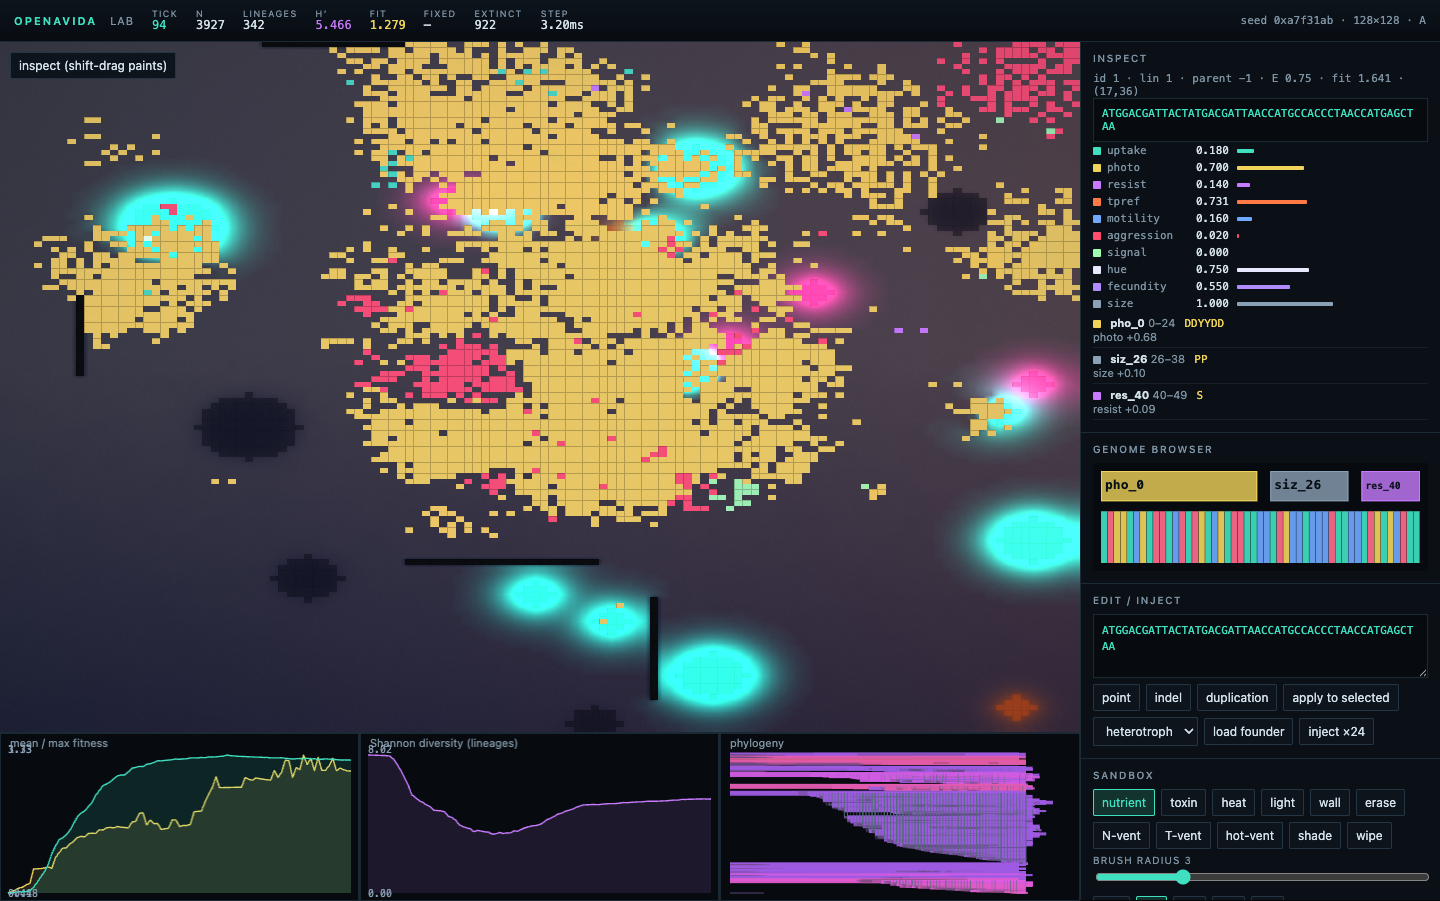
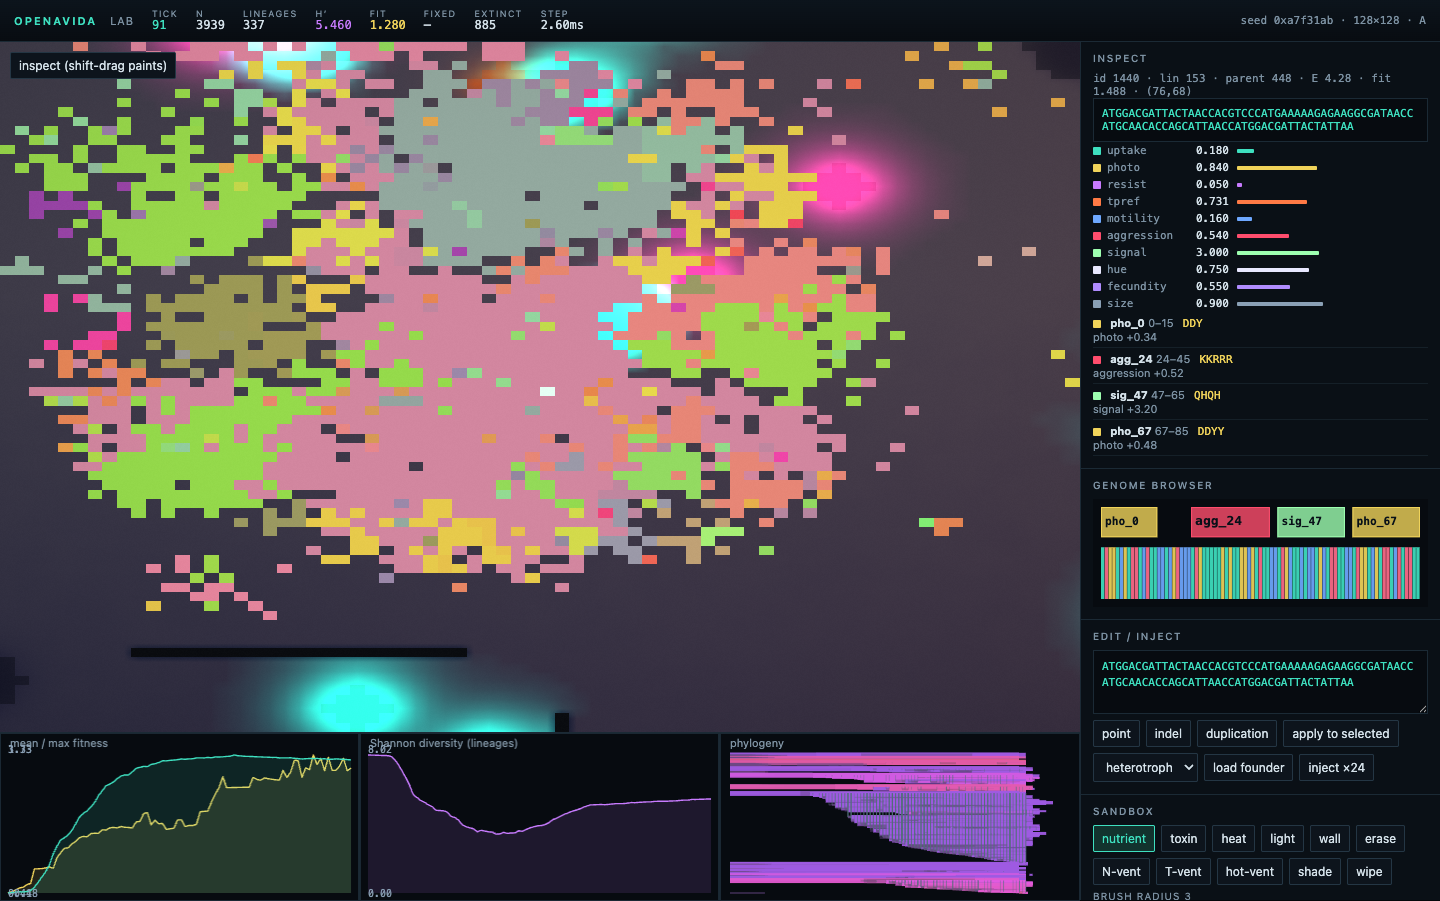
Zoom onto living mass and color cells by clade.
Density-crop the plate camera and mix lineage hue into guild color so
colonies read as packed, multi-clade tissue rather than a yellow lawn.

diff --git a/src/render/webgl.ts b/src/render/webgl.ts
@@ -19,6 +19,8 @@ uniform int uSplit;
 uniform sampler2D uFieldsB;
 uniform sampler2D uPlate;
 uniform sampler2D uPlateB;
+uniform vec4 uCrop;
+uniform vec4 uCropB;
 out vec4 fragColor;
 
 vec3 fieldColor(vec4 f) {
@@ -36,37 +38,40 @@ vec3 fieldColor(vec4 f) {
   return bg + nut * 1.05 + tox * 0.9 + tmp + lit;
 }
 
+vec2 applyCrop(vec2 local, vec4 crop) {
+  return vec2(mix(crop.x, crop.z, local.x), mix(crop.y, crop.w, local.y));
+}
+
 void main() {
   vec2 uv = gl_FragCoord.xy / uRes;
+  vec2 local;
   vec2 tuv;
   vec4 f;
   vec4 plate;
   if (uSplit == 1) {
     if (uv.x < 0.5) {
-      tuv = vec2(uv.x * 2.0, 1.0 - uv.y);
+      local = vec2(uv.x * 2.0, 1.0 - uv.y);
+      tuv = applyCrop(local, uCrop);
       f = texture(uFields, tuv);
       plate = texture(uPlate, tuv);
     } else {
-      tuv = vec2((uv.x - 0.5) * 2.0, 1.0 - uv.y);
+      local = vec2((uv.x - 0.5) * 2.0, 1.0 - uv.y);
+      tuv = applyCrop(local, uCropB);
       f = texture(uFieldsB, tuv);
       plate = texture(uPlateB, tuv);
     }
   } else {
-    tuv = vec2(uv.x, 1.0 - uv.y);
+    local = vec2(uv.x, 1.0 - uv.y);
+    tuv = applyCrop(local, uCrop);
     f = texture(uFields, tuv);
     plate = texture(uPlate, tuv);
   }
   vec3 col = fieldColor(f);
-  if (plate.a > 0.02) {
-    col = mix(col, plate.rgb, plate.a);
-    vec2 c = fract(tuv * uWorld);
-    float hair = (c.x < 0.07 || c.y < 0.07) ? 1.0 : 0.0;
-    col *= 1.0 - hair * 0.22 * plate.a;
-  }
+  if (plate.a > 0.02) col = mix(col, plate.rgb, plate.a);
   float vig = smoothstep(1.15, 0.22, length(uv - 0.5));
-  col *= 0.82 + 0.18 * vig;
+  col *= 0.86 + 0.14 * vig;
   float g = fract(sin(dot(gl_FragCoord.xy, vec2(12.9898, 78.233))) * 43758.5453);
-  col += (g - 0.5) * 0.012;
+  col += (g - 0.5) * 0.01;
   if (uSplit == 1) {
     float line = smoothstep(0.003, 0.0, abs(uv.x - 0.5));
     col = mix(col, vec3(0.25, 0.85, 0.75), line * 0.55);
@@ -119,7 +124,10 @@ function hexRgb(hex: string): [number, number, number] {
 }
 
 /** Display color from dominant metabolic trait, tinted by the hue locus. */
-export function organismRgb(ph: { uptake: number; photo: number; resist: number; aggression: number; signal: number; hue: number }): [number, number, number] {
+export function organismRgb(
+  ph: { uptake: number; photo: number; resist: number; aggression: number; signal: number; hue: number },
+  lineageId = 0,
+): [number, number, number] {
   const guilds: Array<[keyof typeof TRAIT_COLOR, number]> = [
     ["aggression", ph.aggression],
     ["photo", ph.photo],
@@ -130,8 +138,9 @@ export function organismRgb(ph: { uptake: number; photo: number; resist: number;
   let best = guilds[0]!;
   for (const g of guilds) if (g[1] > best[1]) best = g;
   const [br, bg, bb] = hexRgb(TRAIT_COLOR[best[0]]);
-  const [hr, hg, hb] = hsl(ph.hue, 0.62, 0.58);
-  return [br * 0.9 + hr * 0.1, bg * 0.9 + hg * 0.1, bb * 0.9 + hb * 0.1];
+  const linHue = (lineageId * 0.14159265 + ph.hue * 0.17) % 1;
+  const [lr, lg, lb] = hsl(linHue, 0.72, 0.56);
+  return [br * 0.48 + lr * 0.52, bg * 0.48 + lg * 0.52, bb * 0.48 + lb * 0.52];
 }
 
 export type FieldMode = 0 | 1 | 2 | 3 | 4;
@@ -151,6 +160,8 @@ export class LabRenderer {
   fieldMode: FieldMode = 0;
   view: ViewMode = "A";
   selectedId = -1;
+  private cropA: [number, number, number, number] = [0, 0, 1, 1];
+  private cropB: [number, number, number, number] = [0, 0, 1, 1];
 
   constructor(canvas: HTMLCanvasElement) {
     this.canvas = canvas;
@@ -256,7 +267,7 @@ export class LabRenderer {
     }
     for (const org of world.organisms) {
       const i = (org.y * world.w + org.x) * 4;
-      const [r, g, b] = organismRgb(org.ph);
+      const [r, g, b] = organismRgb(org.ph, org.lineageId);
       const sel = org.id === this.selectedId;
       out[i] = sel ? 230 : Math.round(r * 255);
       out[i + 1] = sel ? 255 : Math.round(g * 255);
@@ -290,7 +301,11 @@ export class LabRenderer {
     gl.uniform2f(gl.getUniformLocation(this.fieldProg, "uWorld"), primary.w, primary.h);
     gl.uniform1f(gl.getUniformLocation(this.fieldProg, "uTime"), timeSec);
     gl.uniform1i(gl.getUniformLocation(this.fieldProg, "uMode"), this.fieldMode);
+    this.cropA = occupancyCrop(this.view === "B" && !split ? worldB : worldA);
+    this.cropB = occupancyCrop(worldB);
     gl.uniform1i(gl.getUniformLocation(this.fieldProg, "uSplit"), split ? 1 : 0);
+    gl.uniform4f(gl.getUniformLocation(this.fieldProg, "uCrop"), ...this.cropA);
+    gl.uniform4f(gl.getUniformLocation(this.fieldProg, "uCropB"), ...this.cropB);
     gl.activeTexture(gl.TEXTURE0);
     gl.bindTexture(gl.TEXTURE_2D, this.texA);
     gl.uniform1i(gl.getUniformLocation(this.fieldProg, "uFields"), 0);
@@ -311,13 +326,25 @@ export class LabRenderer {
     let u = (clientX - rect.left) / rect.width;
     const v = (clientY - rect.top) / rect.height;
     if (u < 0 || v < 0 || u > 1 || v > 1) return null;
-    if (this.view === "split") {
-      u = u < 0.5 ? u * 2 : (u - 0.5) * 2;
-    }
-    const x = Math.floor(u * world.w);
-    const y = Math.floor(v * world.h);
+    const side = this.view === "split" ? (u < 0.5 ? "A" : "B") : this.view;
+    if (this.view === "split") u = u < 0.5 ? u * 2 : (u - 0.5) * 2;
+    const crop = side === "B" ? this.cropB : this.cropA;
+    const tu = crop[0] + u * (crop[2] - crop[0]);
+    const tv = crop[1] + v * (crop[3] - crop[1]);
+    const x = Math.floor(tu * world.w);
+    const y = Math.floor(tv * world.h);
     if (x < 0 || y < 0 || x >= world.w || y >= world.h) return null;
     return { x, y };
+  }
+
+  gridToCanvas(gx: number, gy: number, world: World): { x: number; y: number } {
+    const crop = this.view === "B" ? this.cropB : this.cropA;
+    const tu = (gx + 0.5) / world.w;
+    const tv = (gy + 0.5) / world.h;
+    const u = (tu - crop[0]) / Math.max(1e-6, crop[2] - crop[0]);
+    const v = (tv - crop[1]) / Math.max(1e-6, crop[3] - crop[1]);
+    const rect = this.canvas.getBoundingClientRect();
+    return { x: rect.left + u * rect.width, y: rect.top + v * rect.height };
   }
 
   pickWorld(clientX: number): "A" | "B" {
@@ -326,6 +353,52 @@ export class LabRenderer {
     const u = (clientX - rect.left) / rect.width;
     return u < 0.5 ? "A" : "B";
   }
+}
+
+function occupancyCrop(world: World): [number, number, number, number] {
+  const w = world.w;
+  const h = world.h;
+  const orgs = world.organisms;
+  if (orgs.length === 0) return [0, 0, 1, 1];
+  const bins = 16;
+  const counts = new Int32Array(bins * bins);
+  for (const o of orgs) {
+    const bx = Math.min(bins - 1, Math.floor((o.x / w) * bins));
+    const by = Math.min(bins - 1, Math.floor((o.y / h) * bins));
+    counts[by * bins + bx]!++;
+  }
+  let best = 0;
+  let bestI = 0;
+  for (let i = 0; i < counts.length; i++) {
+    if (counts[i]! > best) {
+      best = counts[i]!;
+      bestI = i;
+    }
+  }
+  const cx = ((bestI % bins) + 0.5) * (w / bins);
+  const cy = (Math.floor(bestI / bins) + 0.5) * (h / bins);
+  const side = Math.max(48, Math.min(w, h, Math.floor(Math.max(w, h) * 0.58)));
+  let x0 = Math.floor(cx - side / 2);
+  let y0 = Math.floor(cy - side / 2);
+  let x1 = x0 + side;
+  let y1 = y0 + side;
+  if (x0 < 0) {
+    x1 -= x0;
+    x0 = 0;
+  }
+  if (y0 < 0) {
+    y1 -= y0;
+    y0 = 0;
+  }
+  if (x1 > w) {
+    x0 = Math.max(0, x0 - (x1 - w));
+    x1 = w;
+  }
+  if (y1 > h) {
+    y0 = Math.max(0, y0 - (y1 - h));
+    y1 = h;
+  }
+  return [x0 / w, y0 / h, x1 / w, y1 / h];
 }
 
 export { TRAIT_COLOR, hsl };

diff --git a/src/app.ts b/src/app.ts
@@ -554,10 +554,8 @@ export function mount(root: HTMLElement): void {
       w.organisms.find((org) => org.x > w.w * 0.25 && org.y > w.h * 0.25) ??
       w.organisms[0];
     if (!o) return null;
-    const rect = canvas.getBoundingClientRect();
-    const u = (o.x + 0.5) / w.w;
-    const v = (o.y + 0.5) / w.h;
-    return { x: rect.left + u * rect.width, y: rect.top + v * rect.height, id: o.id };
+    const p = renderer.gridToCanvas(o.x, o.y, w);
+    return { x: p.x, y: p.y, id: o.id };
   };
 
   const loop = (now: number) => {

diff --git a/workbench.md b/workbench.md
@@ -39,7 +39,7 @@ Screenshots: `workbench/lab-1.png`, `workbench/lab-2.png` (also `{SCRATCH}/lab-1
 
 ## Blind A/B vs the bar (notes)
 
-Round 1 critic picked **bar**: overlapping `gl.POINTS` halos, not readable occupancy. Loop: organisms are now opaque NEAREST grid cells with hairlines (tissue), walls/vents as plate glyphs, hard guild chroma. Fitness neighbor terms now enter the live score.
+Round 1 critic picked **bar**: overlapping `gl.POINTS` halos. Loop 2: opaque NEAREST cells. Loop 3: drop gutters, clade coloring, density crop so living mass fills the view. Fitness neighbor terms enter the live score.
 
 **Life Engine / Emergent Garden.** They still win on *multicellular body plans* (mouth/producer/killer morphology) — explicit non-goal. Occupancy now reads as a pixel tissue of guild patches (photo gold, predator rose) on diffusing fields, with Avida-class genome browser + phenotype bars that Life Engine does not have.
 
